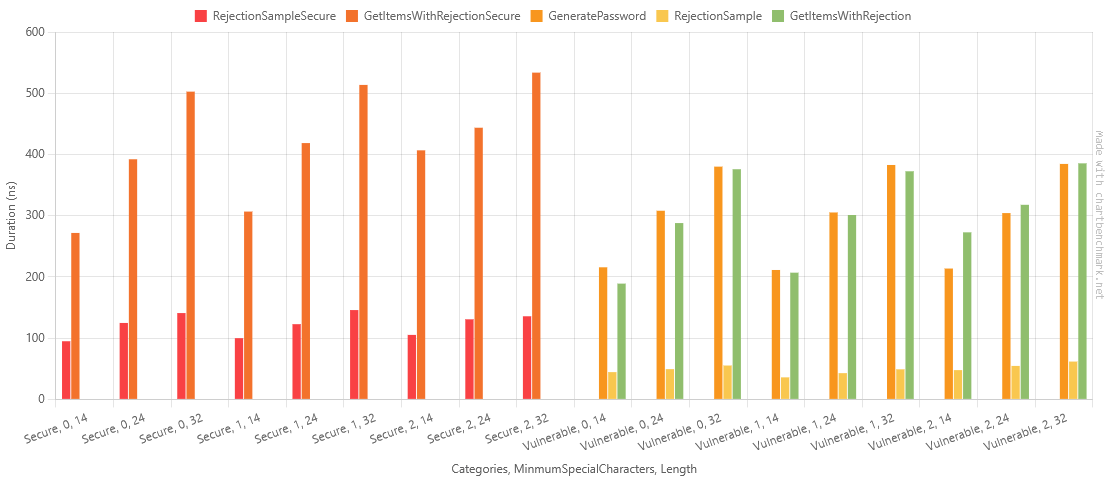
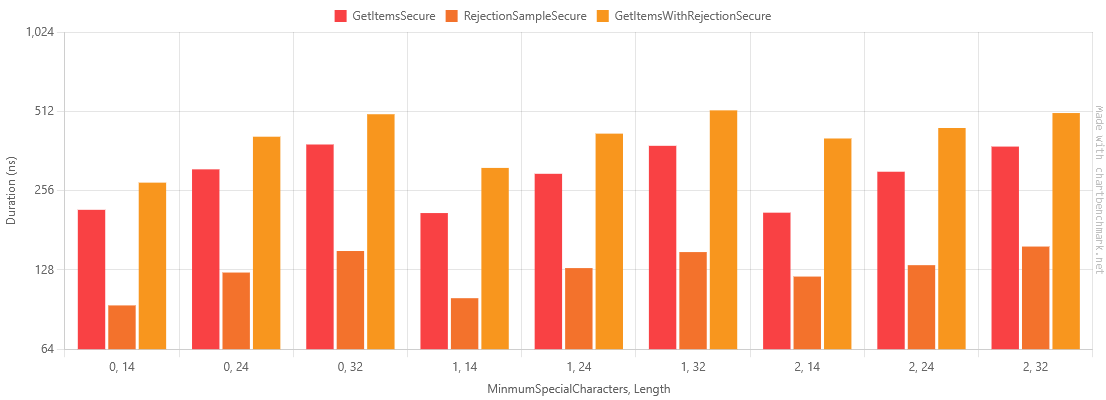
New results table for Table 5

diff --git a/2025-03-24-PasswordGen.md b/2025-03-24-PasswordGen.md
@@ -411,9 +411,7 @@ That's definitely a lot neater code than the original, let's see how it performs
 
 Okay, well that's a bit of a performance regression. We'd need to understand the trade-offs of using the full character set vs the reduced character set with better performance.
 
-At this point we can drop benchmarking the "weak" version entirely. We now have  a secure version that has feature parity with the original while also being faster than the original code.
-
-The most optimised vulnerable version is much faster of course, but [there are even faster weak generators](https://xkcd.com/221/).
+At this point we can drop benchmarking the "weak" version entirely. We now have  a secure version that has feature parity with the original while also being faster than the original code. I'll be using `GetItemsSecure` as the baseline for benchmarks going forward.
 
 There's a couple of final performance tweaks we can try, but before we do, we should address the third bullet point on the list of problems with the original co-pilot code.
 
@@ -557,79 +555,43 @@ For this solution we have had to enumerate the array again for the `GetItems` ap
 
 <summary>Table of Results for passwords with Minimum Special Characters</summary>
 
-| Method                      | Categories | MinmumSpecialCharacters | Length | Mean        | Error     | StdDev    | Ratio | RatioSD | Gen0   | Allocated | Alloc Ratio |
-|---------------------------- |----------- |------------------------ |------- |------------:|----------:|----------:|------:|--------:|-------:|----------:|------------:|
-| **SecureRandom**                | **Secure**     | **0**                       | **14**     | **1,280.72 ns** | **11.152 ns** | **10.432 ns** |  **1.00** |    **0.01** | **0.0668** |     **560 B** |        **1.00** |
-| RejectionSampleSecure       | Secure     | 0                       | 14     |    95.00 ns |  0.904 ns |  0.801 ns |  0.07 |    0.00 | 0.0181 |     152 B |        0.27 |
-| GetItemsWithRejectionSecure | Secure     | 0                       | 14     |   271.84 ns |  1.882 ns |  1.761 ns |  0.21 |    0.00 | 0.0134 |     112 B |        0.20 |
-|                             |            |                         |        |             |           |           |       |         |        |           |             |
-| **SecureRandom**                | **Secure**     | **0**                       | **24**     | **2,389.22 ns** | **15.205 ns** | **14.223 ns** |  **1.00** |    **0.01** | **0.1411** |    **1200 B** |        **1.00** |
-| RejectionSampleSecure       | Secure     | 0                       | 24     |   124.85 ns |  1.135 ns |  0.948 ns |  0.05 |    0.00 | 0.0229 |     192 B |        0.16 |
-| GetItemsWithRejectionSecure | Secure     | 0                       | 24     |   392.17 ns |  1.893 ns |  1.580 ns |  0.16 |    0.00 | 0.0172 |     144 B |        0.12 |
-|                             |            |                         |        |             |           |           |       |         |        |           |             |
-| **SecureRandom**                | **Secure**     | **0**                       | **32**     | **3,189.27 ns** | **17.296 ns** | **15.332 ns** |  **1.00** |    **0.01** | **0.2213** |    **1856 B** |        **1.00** |
-| RejectionSampleSecure       | Secure     | 0                       | 32     |   141.00 ns |  2.724 ns |  2.415 ns |  0.04 |    0.00 | 0.0277 |     232 B |        0.12 |
-| GetItemsWithRejectionSecure | Secure     | 0                       | 32     |   502.59 ns |  4.541 ns |  4.248 ns |  0.16 |    0.00 | 0.0210 |     176 B |        0.09 |
-|                             |            |                         |        |             |           |           |       |         |        |           |             |
-| **SecureRandom**                | **Secure**     | **1**                       | **14**     | **1,339.70 ns** |  **9.988 ns** |  **9.343 ns** |  **1.00** |    **0.01** | **0.0668** |     **560 B** |        **1.00** |
-| RejectionSampleSecure       | Secure     | 1                       | 14     |   100.03 ns |  0.954 ns |  0.797 ns |  0.07 |    0.00 | 0.0181 |     152 B |        0.27 |
-| GetItemsWithRejectionSecure | Secure     | 1                       | 14     |   306.75 ns |  2.379 ns |  2.225 ns |  0.23 |    0.00 | 0.0138 |     117 B |        0.21 |
-|                             |            |                         |        |             |           |           |       |         |        |           |             |
-| **SecureRandom**                | **Secure**     | **1**                       | **24**     | **2,312.51 ns** | **19.275 ns** | **18.030 ns** |  **1.00** |    **0.01** | **0.1411** |    **1200 B** |        **1.00** |
-| RejectionSampleSecure       | Secure     | 1                       | 24     |   122.86 ns |  1.833 ns |  1.530 ns |  0.05 |    0.00 | 0.0229 |     192 B |        0.16 |
-| GetItemsWithRejectionSecure | Secure     | 1                       | 24     |   418.61 ns |  3.800 ns |  3.554 ns |  0.18 |    0.00 | 0.0172 |     145 B |        0.12 |
-|                             |            |                         |        |             |           |           |       |         |        |           |             |
-| **SecureRandom**                | **Secure**     | **1**                       | **32**     | **3,115.85 ns** | **31.016 ns** | **29.013 ns** |  **1.00** |    **0.01** | **0.2213** |    **1856 B** |        **1.00** |
-| RejectionSampleSecure       | Secure     | 1                       | 32     |   145.89 ns |  2.309 ns |  2.047 ns |  0.05 |    0.00 | 0.0277 |     232 B |        0.12 |
-| GetItemsWithRejectionSecure | Secure     | 1                       | 32     |   513.57 ns |  4.516 ns |  4.224 ns |  0.16 |    0.00 | 0.0210 |     176 B |        0.09 |
-|                             |            |                         |        |             |           |           |       |         |        |           |             |
-| **SecureRandom**                | **Secure**     | **2**                       | **14**     | **1,327.21 ns** | **11.720 ns** | **10.963 ns** |  **1.00** |    **0.01** | **0.0668** |     **560 B** |        **1.00** |
-| RejectionSampleSecure       | Secure     | 2                       | 14     |   105.35 ns |  1.197 ns |  1.120 ns |  0.08 |    0.00 | 0.0181 |     152 B |        0.27 |
-| GetItemsWithRejectionSecure | Secure     | 2                       | 14     |   406.77 ns |  3.757 ns |  3.514 ns |  0.31 |    0.00 | 0.0162 |     137 B |        0.24 |
-|                             |            |                         |        |             |           |           |       |         |        |           |             |
-| **SecureRandom**                | **Secure**     | **2**                       | **24**     | **2,228.90 ns** | **27.512 ns** | **25.735 ns** |  **1.00** |    **0.02** | **0.1411** |    **1200 B** |        **1.00** |
-| RejectionSampleSecure       | Secure     | 2                       | 24     |   130.80 ns |  1.277 ns |  1.194 ns |  0.06 |    0.00 | 0.0229 |     192 B |        0.16 |
-| GetItemsWithRejectionSecure | Secure     | 2                       | 24     |   443.67 ns |  4.374 ns |  4.092 ns |  0.20 |    0.00 | 0.0176 |     150 B |        0.12 |
-|                             |            |                         |        |             |           |           |       |         |        |           |             |
-| **SecureRandom**                | **Secure**     | **2**                       | **32**     | **3,051.03 ns** | **18.090 ns** | **15.106 ns** |  **1.00** |    **0.01** | **0.2213** |    **1856 B** |        **1.00** |
-| RejectionSampleSecure       | Secure     | 2                       | 32     |   135.78 ns |  1.685 ns |  1.407 ns |  0.04 |    0.00 | 0.0277 |     232 B |        0.12 |
-| GetItemsWithRejectionSecure | Secure     | 2                       | 32     |   533.64 ns |  6.711 ns |  6.278 ns |  0.17 |    0.00 | 0.0210 |     178 B |        0.10 |
-|                             |            |                         |        |             |           |           |       |         |        |           |             |
-| **GeneratePassword**            | **Vulnerable** | **0**                       | **14**     |   **215.75 ns** |  **3.378 ns** |  **3.159 ns** |  **1.00** |    **0.02** | **0.0753** |     **632 B** |        **1.00** |
-| RejectionSample             | Vulnerable | 0                       | 14     |    44.56 ns |  0.945 ns |  0.928 ns |  0.21 |    0.01 | 0.0181 |     152 B |        0.24 |
-| GetItemsWithRejection       | Vulnerable | 0                       | 14     |   189.10 ns |  1.673 ns |  1.565 ns |  0.88 |    0.01 | 0.0134 |     112 B |        0.18 |
-|                             |            |                         |        |             |           |           |       |         |        |           |             |
-| **GeneratePassword**            | **Vulnerable** | **0**                       | **24**     |   **308.09 ns** |  **4.979 ns** |  **4.158 ns** |  **1.00** |    **0.02** | **0.1516** |    **1272 B** |        **1.00** |
-| RejectionSample             | Vulnerable | 0                       | 24     |    49.44 ns |  0.416 ns |  0.347 ns |  0.16 |    0.00 | 0.0229 |     192 B |        0.15 |
-| GetItemsWithRejection       | Vulnerable | 0                       | 24     |   287.98 ns |  2.550 ns |  2.385 ns |  0.93 |    0.01 | 0.0172 |     144 B |        0.11 |
-|                             |            |                         |        |             |           |           |       |         |        |           |             |
-| **GeneratePassword**            | **Vulnerable** | **0**                       | **32**     |   **380.12 ns** |  **5.595 ns** |  **4.672 ns** |  **1.00** |    **0.02** | **0.2303** |    **1928 B** |        **1.00** |
-| RejectionSample             | Vulnerable | 0                       | 32     |    55.34 ns |  0.588 ns |  0.491 ns |  0.15 |    0.00 | 0.0277 |     232 B |        0.12 |
-| GetItemsWithRejection       | Vulnerable | 0                       | 32     |   375.89 ns |  3.337 ns |  3.121 ns |  0.99 |    0.01 | 0.0210 |     176 B |        0.09 |
-|                             |            |                         |        |             |           |           |       |         |        |           |             |
-| **GeneratePassword**            | **Vulnerable** | **1**                       | **14**     |   **211.37 ns** |  **2.599 ns** |  **2.170 ns** |  **1.00** |    **0.01** | **0.0753** |     **632 B** |        **1.00** |
-| RejectionSample             | Vulnerable | 1                       | 14     |    36.02 ns |  0.462 ns |  0.360 ns |  0.17 |    0.00 | 0.0181 |     152 B |        0.24 |
-| GetItemsWithRejection       | Vulnerable | 1                       | 14     |   206.96 ns |  1.045 ns |  0.873 ns |  0.98 |    0.01 | 0.0138 |     117 B |        0.19 |
-|                             |            |                         |        |             |           |           |       |         |        |           |             |
-| **GeneratePassword**            | **Vulnerable** | **1**                       | **24**     |   **305.28 ns** |  **2.072 ns** |  **1.618 ns** |  **1.00** |    **0.01** | **0.1516** |    **1272 B** |        **1.00** |
-| RejectionSample             | Vulnerable | 1                       | 24     |    42.89 ns |  0.622 ns |  0.582 ns |  0.14 |    0.00 | 0.0229 |     192 B |        0.15 |
-| GetItemsWithRejection       | Vulnerable | 1                       | 24     |   301.15 ns |  1.185 ns |  0.925 ns |  0.99 |    0.01 | 0.0172 |     145 B |        0.11 |
-|                             |            |                         |        |             |           |           |       |         |        |           |             |
-| **GeneratePassword**            | **Vulnerable** | **1**                       | **32**     |   **382.83 ns** |  **7.717 ns** |  **6.444 ns** |  **1.00** |    **0.02** | **0.2303** |    **1928 B** |        **1.00** |
-| RejectionSample             | Vulnerable | 1                       | 32     |    49.15 ns |  0.482 ns |  0.402 ns |  0.13 |    0.00 | 0.0277 |     232 B |        0.12 |
-| GetItemsWithRejection       | Vulnerable | 1                       | 32     |   372.54 ns |  1.795 ns |  1.499 ns |  0.97 |    0.02 | 0.0210 |     176 B |        0.09 |
-|                             |            |                         |        |             |           |           |       |         |        |           |             |
-| **GeneratePassword**            | **Vulnerable** | **2**                       | **14**     |   **213.71 ns** |  **4.080 ns** |  **3.617 ns** |  **1.00** |    **0.02** | **0.0753** |     **632 B** |        **1.00** |
-| RejectionSample             | Vulnerable | 2                       | 14     |    47.86 ns |  1.007 ns |  2.057 ns |  0.22 |    0.01 | 0.0181 |     152 B |        0.24 |
-| GetItemsWithRejection       | Vulnerable | 2                       | 14     |   272.85 ns |  2.105 ns |  1.866 ns |  1.28 |    0.02 | 0.0162 |     137 B |        0.22 |
-|                             |            |                         |        |             |           |           |       |         |        |           |             |
-| **GeneratePassword**            | **Vulnerable** | **2**                       | **24**     |   **304.27 ns** |  **4.919 ns** |  **4.108 ns** |  **1.00** |    **0.02** | **0.1516** |    **1272 B** |        **1.00** |
-| RejectionSample             | Vulnerable | 2                       | 24     |    54.69 ns |  0.295 ns |  0.246 ns |  0.18 |    0.00 | 0.0229 |     192 B |        0.15 |
-| GetItemsWithRejection       | Vulnerable | 2                       | 24     |   317.80 ns |  2.816 ns |  2.634 ns |  1.04 |    0.02 | 0.0176 |     150 B |        0.12 |
-|                             |            |                         |        |             |           |           |       |         |        |           |             |
-| **GeneratePassword**            | **Vulnerable** | **2**                       | **32**     |   **384.55 ns** |  **7.328 ns** |  **7.525 ns** |  **1.00** |    **0.03** | **0.2303** |    **1928 B** |        **1.00** |
-| RejectionSample             | Vulnerable | 2                       | 32     |    61.80 ns |  1.081 ns |  0.958 ns |  0.16 |    0.00 | 0.0277 |     232 B |        0.12 |
-| GetItemsWithRejection       | Vulnerable | 2                       | 32     |   385.51 ns |  3.140 ns |  2.937 ns |  1.00 |    0.02 | 0.0210 |     178 B |        0.09 |
+| Method                      | MinmumSpecialCharacters | Length | Mean      | Error    | StdDev   | Ratio | RatioSD | Gen0   | Allocated | Alloc Ratio |
+|---------------------------- |------------------------ |------- |----------:|---------:|---------:|------:|--------:|-------:|----------:|------------:|
+| **GetItemsSecure**              | **0**                       | **14**     | **216.41 ns** | **3.943 ns** | **3.688 ns** |  **1.00** |    **0.02** | **0.0134** |     **112 B** |        **1.00** |
+| RejectionSampleSecure       | 0                       | 14     |  93.84 ns | 0.779 ns | 0.651 ns |  0.43 |    0.01 | 0.0181 |     152 B |        1.36 |
+| GetItemsWithRejectionSecure | 0                       | 14     | 274.44 ns | 2.315 ns | 2.165 ns |  1.27 |    0.02 | 0.0134 |     112 B |        1.00 |
+|                             |                         |        |           |          |          |       |         |        |           |             |
+| **GetItemsSecure**              | **0**                       | **24**     | **308.27 ns** | **4.794 ns** | **4.250 ns** |  **1.00** |    **0.02** | **0.0172** |     **144 B** |        **1.00** |
+| RejectionSampleSecure       | 0                       | 24     | 125.08 ns | 2.024 ns | 1.794 ns |  0.41 |    0.01 | 0.0229 |     192 B |        1.33 |
+| GetItemsWithRejectionSecure | 0                       | 24     | 410.03 ns | 3.729 ns | 3.488 ns |  1.33 |    0.02 | 0.0172 |     144 B |        1.00 |
+|                             |                         |        |           |          |          |       |         |        |           |             |
+| **GetItemsSecure**              | **0**                       | **32**     | **383.04 ns** | **7.545 ns** | **7.410 ns** |  **1.00** |    **0.03** | **0.0210** |     **176 B** |        **1.00** |
+| RejectionSampleSecure       | 0                       | 32     | 150.98 ns | 3.058 ns | 7.149 ns |  0.39 |    0.02 | 0.0277 |     232 B |        1.32 |
+| GetItemsWithRejectionSecure | 0                       | 32     | 499.03 ns | 3.942 ns | 3.495 ns |  1.30 |    0.03 | 0.0210 |     176 B |        1.00 |
+|                             |                         |        |           |          |          |       |         |        |           |             |
+| **GetItemsSecure**              | **1**                       | **14**     | **210.37 ns** | **3.295 ns** | **3.082 ns** |  **1.00** |    **0.02** | **0.0134** |     **112 B** |        **1.00** |
+| RejectionSampleSecure       | 1                       | 14     |  99.96 ns | 1.267 ns | 1.058 ns |  0.48 |    0.01 | 0.0181 |     152 B |        1.36 |
+| GetItemsWithRejectionSecure | 1                       | 14     | 312.13 ns | 3.662 ns | 3.425 ns |  1.48 |    0.03 | 0.0138 |     117 B |        1.04 |
+|                             |                         |        |           |          |          |       |         |        |           |             |
+| **GetItemsSecure**              | **1**                       | **24**     | **296.49 ns** | **3.779 ns** | **3.535 ns** |  **1.00** |    **0.02** | **0.0172** |     **144 B** |        **1.00** |
+| RejectionSampleSecure       | 1                       | 24     | 130.04 ns | 2.424 ns | 3.628 ns |  0.44 |    0.01 | 0.0229 |     192 B |        1.33 |
+| GetItemsWithRejectionSecure | 1                       | 24     | 421.19 ns | 2.212 ns | 1.847 ns |  1.42 |    0.02 | 0.0172 |     145 B |        1.01 |
+|                             |                         |        |           |          |          |       |         |        |           |             |
+| **GetItemsSecure**              | **1**                       | **32**     | **378.64 ns** | **4.840 ns** | **4.528 ns** |  **1.00** |    **0.02** | **0.0210** |     **176 B** |        **1.00** |
+| RejectionSampleSecure       | 1                       | 32     | 149.58 ns | 2.487 ns | 2.327 ns |  0.40 |    0.01 | 0.0277 |     232 B |        1.32 |
+| GetItemsWithRejectionSecure | 1                       | 32     | 516.26 ns | 5.135 ns | 4.803 ns |  1.36 |    0.02 | 0.0210 |     176 B |        1.00 |
+|                             |                         |        |           |          |          |       |         |        |           |             |
+| **GetItemsSecure**              | **2**                       | **14**     | **211.07 ns** | **2.997 ns** | **2.803 ns** |  **1.00** |    **0.02** | **0.0134** |     **112 B** |        **1.00** |
+| RejectionSampleSecure       | 2                       | 14     | 120.75 ns | 1.360 ns | 1.205 ns |  0.57 |    0.01 | 0.0181 |     152 B |        1.36 |
+| GetItemsWithRejectionSecure | 2                       | 14     | 403.71 ns | 4.163 ns | 3.691 ns |  1.91 |    0.03 | 0.0162 |     137 B |        1.22 |
+|                             |                         |        |           |          |          |       |         |        |           |             |
+| **GetItemsSecure**              | **2**                       | **24**     | **301.89 ns** | **3.207 ns** | **3.000 ns** |  **1.00** |    **0.01** | **0.0172** |     **144 B** |        **1.00** |
+| RejectionSampleSecure       | 2                       | 24     | 133.41 ns | 1.090 ns | 0.910 ns |  0.44 |    0.01 | 0.0229 |     192 B |        1.33 |
+| GetItemsWithRejectionSecure | 2                       | 24     | 442.47 ns | 3.852 ns | 3.603 ns |  1.47 |    0.02 | 0.0176 |     150 B |        1.04 |
+|                             |                         |        |           |          |          |       |         |        |           |             |
+| **GetItemsSecure**              | **2**                       | **32**     | **376.13 ns** | **3.315 ns** | **3.100 ns** |  **1.00** |    **0.01** | **0.0210** |     **176 B** |        **1.00** |
+| RejectionSampleSecure       | 2                       | 32     | 156.98 ns | 0.922 ns | 0.818 ns |  0.42 |    0.00 | 0.0277 |     232 B |        1.32 |
+| GetItemsWithRejectionSecure | 2                       | 32     | 504.26 ns | 5.433 ns | 5.082 ns |  1.34 |    0.02 | 0.0210 |     178 B |        1.01 |
 
 </details>
 
@@ -642,6 +604,7 @@ We can try to speed up the `GetItems` based methods by using a loop to count the
 Finally, we can try to avoid a heap allocation by using `stackalloc` to allocate the span on the stack.
 
 <details>
+
 <summary>Results table - Loop special character checking (Example6.cs)</summary>
 
 | Method                      | Categories | MinmumSpecialCharacters | Length | Mean       | Error    | StdDev   | Ratio | RatioSD | Gen0   | Allocated | Alloc Ratio |
